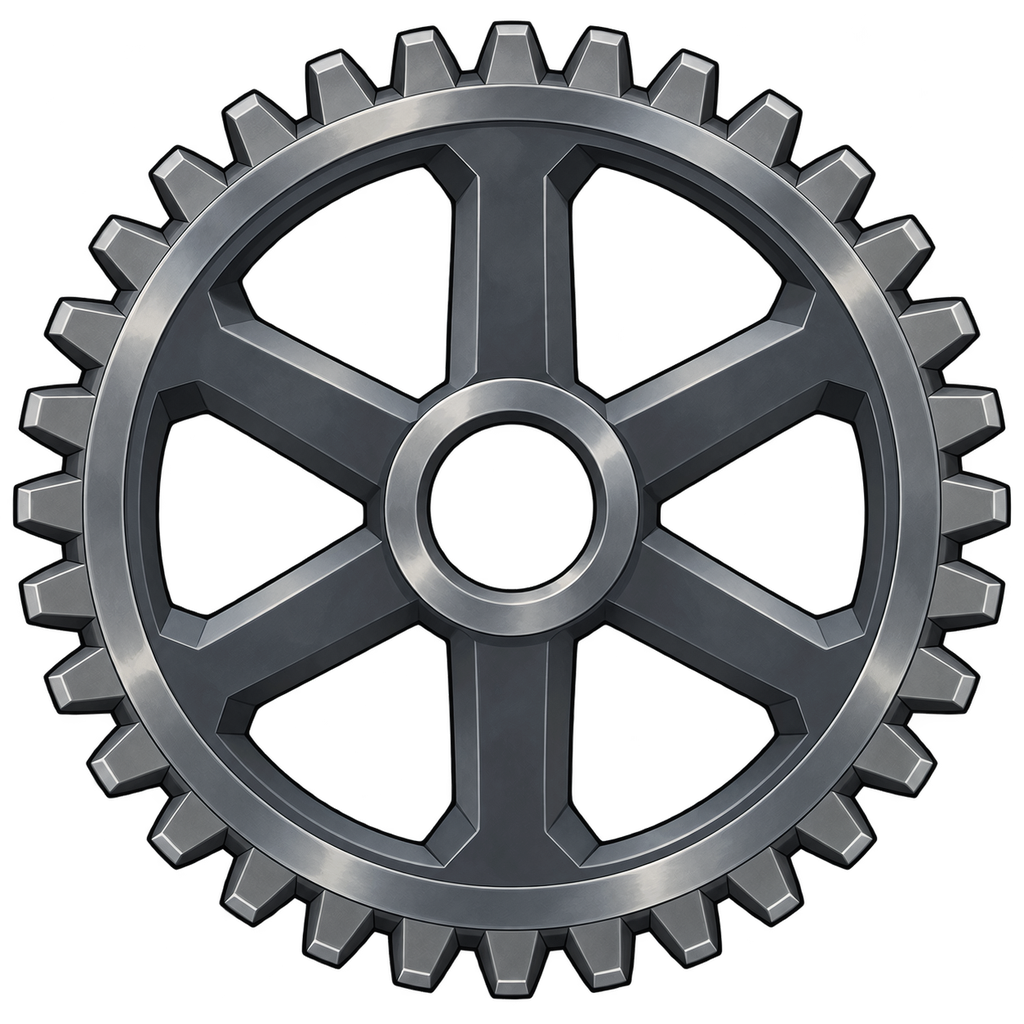
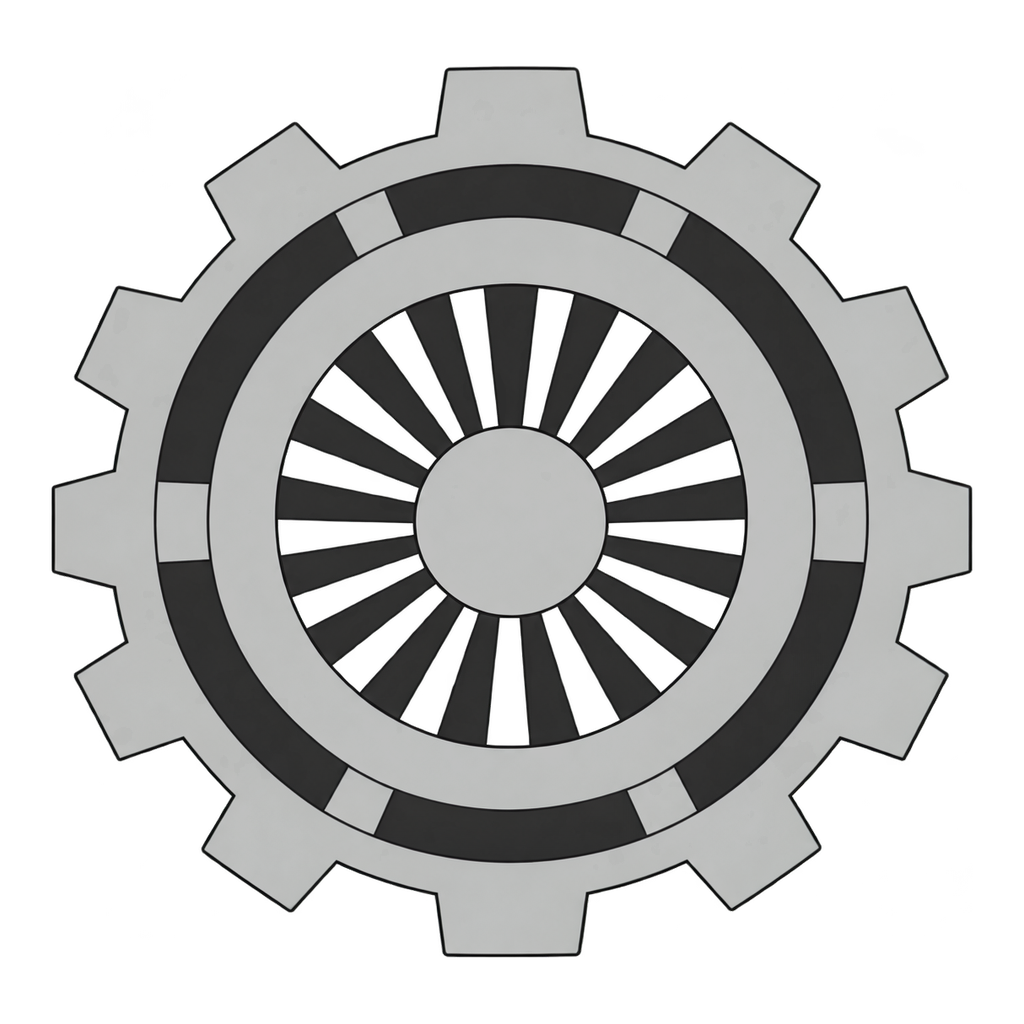
Use original animation frames and portrait-style gear for Geer VFX

diff --git a/src/ShoujoKagekiAijoKaren/GodotScripts/PromisePileSystem/Vfx/NKarenGeerVfx.cs b/src/ShoujoKagekiAijoKaren/GodotScripts/PromisePileSystem/Vfx/NKarenGeerVfx.cs
@@ -11,11 +11,11 @@ namespace ShoujoKagekiAijoKaren.src.Core.PromisePileSystem.Vfx;
 public partial class NKarenGeerVfx : Node2D
 {
     private static Texture2D? _gearTexture;
-    private static readonly Color Inset = new("#171d29");
     private NCreature _creature = null!;
     private NCombatRoom _room = null!;
     private bool _fullScreen;
     private float _age;
+    private static Texture2D? _castFrames;
     public bool FullScreen => _fullScreen;
     public float Age => _age;
     public bool BelongsTo(NCreature creature) => _creature == creature;
@@ -31,8 +31,17 @@ public partial class NKarenGeerVfx : Node2D
     }
     public override void _Ready()
     {
-        _gearTexture ??= KarenResourceLoader.LoadTexture("res://images/vfx/geer/steel-gear.png", nameof(NKarenGeerVfx));
-        TextureFilter = TextureFilterEnum.LinearWithMipmaps;
+        if (_fullScreen)
+        {
+            _castFrames ??= KarenResourceLoader.LoadTexture(
+                "res://images/vfx/geer/original-cast-atlas.png", nameof(NKarenGeerVfx));
+            TextureFilter = TextureFilterEnum.Linear;
+        }
+        else
+        {
+            _gearTexture ??= KarenResourceLoader.LoadTexture("res://images/vfx/geer/steel-gear.png", nameof(NKarenGeerVfx));
+            TextureFilter = TextureFilterEnum.LinearWithMipmaps;
+        }
         UpdatePlacement();
     }
     private void UpdatePlacement()
@@ -73,7 +82,7 @@ public partial class NKarenGeerVfx : Node2D
     {
         if (_gearTexture == null) return;
         // Imagegen sprite includes a narrow transparent margin around its teeth.
-        float extent = (pitchRadius + 11) * 2 / 0.975f;
+        float extent = (pitchRadius + 11) * 2 / 0.90f;
         DrawSetTransform(center, angle);
         DrawTextureRect(_gearTexture, new Rect2(-extent / 2, -extent / 2, extent, extent),
             false, new Color(1, 1, 1, alpha));
@@ -85,12 +94,12 @@ public partial class NKarenGeerVfx : Node2D
         float angle = 1.7f * (_age - 0.10f * (1 - Mathf.Exp(-_age / 0.10f)));
         if (_fullScreen)
         {
-            DrawRect(new Rect2(0, 0, 1280, 720), new Color(Inset, 0.42f));
-            Gear(new Vector2(-125, 720), 250, -angle * 360 / 250, 0.7f);
-            Gear(new Vector2(1230, -50), 250, angle * 360 / 250, 0.72f);
-            Gear(new Vector2(750, 745), 245, angle * 360 / 245, 0.85f);
-            Gear(new Vector2(920, 310), 225, -angle * 360 / 225 + 0.07f, 0.9f);
-            Gear(new Vector2(335, 310), 360, angle, 0.94f);
+            if (_castFrames == null) return;
+            // Original animation, sampled at 30 fps. Do not depend on video decoder timing.
+            int frame = Mathf.Clamp((int)(_age * 30), 0, 35);
+            var region = new Rect2((frame % 6) * 640, (frame / 6) * 360, 640, 360);
+            DrawTextureRectRegion(_castFrames, new Rect2(0, 0, 1280, 720), region,
+                new Color(1, 1, 1, 0.94f));
         }
         else
         {

diff --git a/images/vfx/geer/README.md b/images/vfx/geer/README.md
@@ -1,12 +1,9 @@
-# Gear sprite provenance and filtering
+# Original-animation gear assets
 
-`steel-gear.png` replaces the procedural wheel drawing in both Geer effects.
+Full-screen cast: `original-cast-atlas.png` is taken directly from the existing STS1 Mod asset `D:/Github/STS_ShoujoKageki/otherResources/video/Gear.webm`, the same scene as the Karen Geer card portrait. Source interval starts at 0.25 seconds; 36 frames at 30 fps, resized to 640×360 each, packed 6×6 in a 3840×2160 lossless atlas. No recoloring or generative redraw of the cast scene. The effect plays 1.2 seconds, with its normal short fades. Linear filtering without mipmaps prevents inter-frame sampling in the atlas. About 32 MiB decoded RGBA, cached once.
 
-- Generated with the built-in imagegen tool on 2026-10-08: one orthographic cool-steel gear, six open spokes, transparent background, broad cel shading, no grain or dense line textures. The generator did not identify its exact underlying model.
-- Original: 1254×1254 RGBA. Source and comparison copies are retained under the task worktree's `artifacts/geer-image-vfx/`.
-- Compared GPT Image 2 Artifact Cleaner strengths 0.25 and 0.50 using the existing local installation and FLUX.2-VAE. Selected 0.25 to soften fine generated surface noise conservatively. Original alpha was copied verbatim and checked equal before resizing; RGB reconstruction can change detail.
-- Final delivery: 1024×1024 lossless RGBA PNG, Lanczos downsampling, no sharpening. The resizing step naturally resamples alpha as well.
-- Godot import: lossless, `mipmaps/generate=true`, `process/fix_alpha_border=true`. Drawing uses `CanvasItem.TextureFilterEnum.LinearWithMipmaps` for rotation and reduction to the small character wheels.
-- This reduces source microtexture and sampling aliasing; it does not claim to eliminate every possible moire pattern on every display. The texture is a stylized visual wheel, not a mechanical engineering model of tooth meshing.
+Character trigger: `steel-gear.png` is a reference-guided imagegen redraw of the light gear in the center of `images/packed/card_portraits/karen/karen_geer.png`. It retains the chunky teeth, two pale rings, dark channel, dense radial spokes and solid circular hub, rather than the earlier generic six-spoke steel wheel. It is a close redraw, not an exact extracted original.
 
-The cleaning utility and neural model are local processing dependencies, not bundled in the Mod.
+The new source is 1302×1208 RGBA. Local Artifact Cleaner strength 0.25 completed and retained alpha byte-for-byte; the 0.50 comparison did not complete after GPU allocation failures. The final sprite uses alpha bounds for centering, square transparent padding, aspect-preserving Lanczos reduction to 1024×1024, and no sharpening. Godot import uses lossless compression, mipmaps, alpha-border correction; drawing uses LinearWithMipmaps. Cleanup reduces unwanted fine texture, without promising elimination of every aliasing pattern. Original animation frames are not run through the AI cleanup model.
+
+Source, cleaned master, normalization data and test evidence are retained in the worktree's `artifacts/geer-original-vfx/`. A Theora transcode attempt failed visual decoding and was replaced with the original-frame atlas; no new video decoder or .ogv asset is shipped. Prior generated six-spoke designs are superseded.

diff --git a/docs/testing/geer-vfx-2026-10-08.md b/docs/testing/geer-vfx-2026-10-08.md
@@ -72,3 +72,15 @@ Godot 导入生成 mipmaps、修正透明边缘，节点使用 LinearWithMipmaps
 本轮仍无全面矩阵、多人、Fast/Instant、空虚模式、多层连续触发或恢复流程测试。两版后台窗口采样 foreground/restored 均为零；临时插件移除、配置原字节恢复及包一致性已核对；开发游戏已退出。两套开发包与主项目 artifacts 构建包已更新。
 
 实机预览：主项目 `artifacts/vfx-review/geer-imagegen-2026-10-08/geer-imagegen-preview.mp4`，beta 普通模式约 12.67 秒，无声。同目录保留原图、0.25 清理图、三列对比和最终素材。待用户查看，未推送。
+
+## 同日修订：原动画全屏与卡面参照齿轮（最新实现）
+
+用户指出此前齿轮过于写实，并要求直接使用原图齿轮或相近重绘。全屏施放改为直接复用老 Mod `otherResources/video/Gear.webm` 的原动画画面：从 0.25 秒开始取 36 帧，30 fps，每帧 640×360，排列为 6×6 无损图集；演出仍为 1.2 秒。原动画不做 AI 清理或重绘。图集约占 32 MiB 解码显存，首次使用后缓存。
+
+角色触发用图以卡面中央亮色齿轮为 imagegen 参照，保留双环、粗齿、密集辐条与实心轮毂；这是相近重绘，不是直接抠图。源图经本地 Artifact Cleaner 0.25 清理并验证透明通道不变；0.50 因 GPU 分配失败未完成。最终等比例居中缩放为 1024×1024，启用 mipmaps。保持一大两小、位于角色后方、0.62 秒退场的行为。
+
+中间尝试的 Theora 转码出现画面损坏，虽逻辑测试通过，视觉检查判为失败，已改用连续帧图集，失败文件仅留在 artifacts，不随包发布。最终双版本重新构建及普通模式定向实测均通过：施放与角色触发实际出现，闲置、选牌等待及退场后无节点；防御自动打出，约定牌堆 3→2，karen_check_hand 模型/可见节点 6/6；空牌堆连续 90 次采样无效果/选牌；直接添加/移除能力无常驻；施放中切换战斗无残留。
+
+已查看最终两版移牌前后截图、两段特效截图和完整录像联系表，未见转码损坏或停帧。stable 最终日志未检出错误；beta 继续存档、测试开始前仍有一条 Godot Invalid Task ID（worker_thread_pool.cpp:418），未定位，不宣称日志完全无错误。本轮未运行全面矩阵、多人、Fast/Instant、空虚模式、多层连续选择或恢复专项。
+
+最终证据在 worktree `artifacts/geer-original-vfx/`；失败转码测试另存。两版后台采样 foreground/restored 均为零，临时插件已移除，配置原字节恢复及部署包一致性已核对。主项目 `artifacts/vfx-review/geer-original-2026-10-08/geer-original-preview.mp4` 是最新 beta 实机无声录像，12.8 秒；同目录 `original-style-gear.png` 为最终角色齿轮图。仍停在第 08 项等待查看，未推送或合并 main。

diff --git a/docs/design/rare-vfx/implementation-plan.md b/docs/design/rare-vfx/implementation-plan.md
@@ -22,7 +22,7 @@
 | 05 | 燃烧吧燃烧吧 | 保留人物燃烧粒子，优化尺寸跟随与重启；抽牌红框改为角色同源的上升红焰与旋转红雾 | 用户已确认，提交已推送任务分支 |
 | 06 | 觉醒形态 | 保留风场与 BGM；修复屏幕坐标、淡出重启、移除清理，避开手牌区域 | 用户已确认，含抽牌加速、单次风声与 BGM 补录；授权合并 main |
 | 07 | 投下燃料 | 卡面短蓄力后爆散，橙黄光点以不同速度汇入玩家，抽牌回能在爆散后结算 | 用户已确认最终效果，2026-10-08 授权提交推送并继续下一张 |
-| 08 | 命运的齿轮 | 打出时全屏齿轮短演出，回合触发时角色身上齿轮短闪；无常驻、无选牌小窗 | 已恢复双段演出并换用 imagegen 齿轮，清理纹理及双版本定向实测完成，等待查看 |
+| 08 | 命运的齿轮 | 打出时全屏齿轮短演出，回合触发时角色身上齿轮短闪；无常驻、无选牌小窗 | 全屏复用原动画，角色齿轮按卡面参照重绘；纹理清理及双版本定向实测完成，等待查看 |
 | 09–13 | 约定之塔桥、命运舞台的再生产、门票、两人的梦想、Starlight第二幕 | 每张单独实施：已有共用反馈保留，在机制关键事件上增加独特动作 | 等待 |
 | 14–19 | 唤醒、棒球、世界上最空虚的人、NONNON哒哟、星光闪耀之时、永不遗忘的闪耀 | 每张单独实施：保留现有命中/移牌/耗尽流程，补有辨识度的短演出 | 等待 |
 | 20–25 | 骄傲、嫉妒、激情、一起闪耀吧、Banana蛋糕、Banana什锦 | 每张单独实施：奖励时机不变，轻量且独特；多人牌单列验证 | 等待 |
